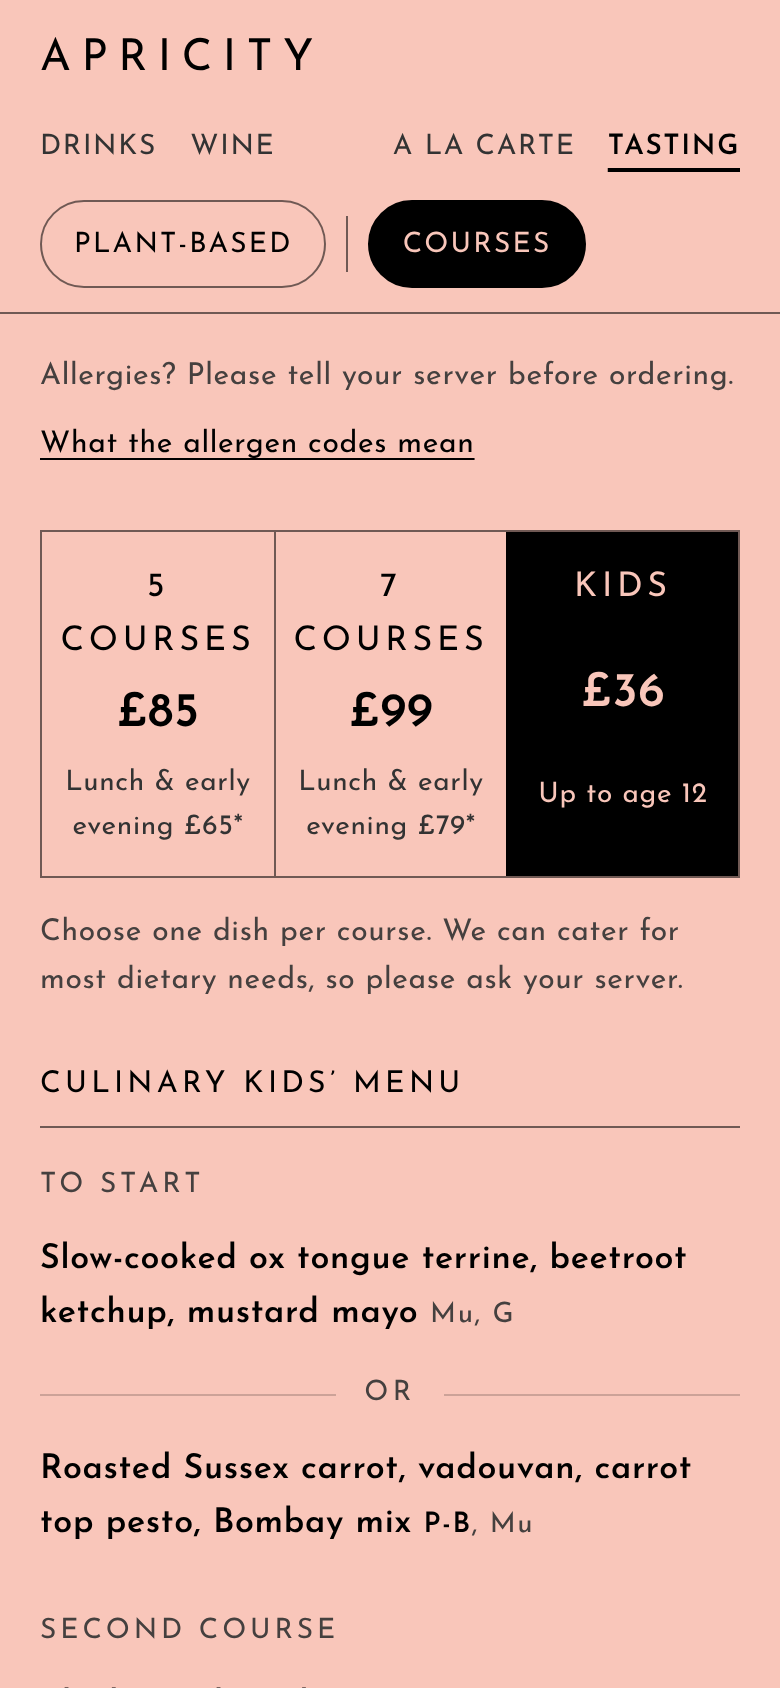
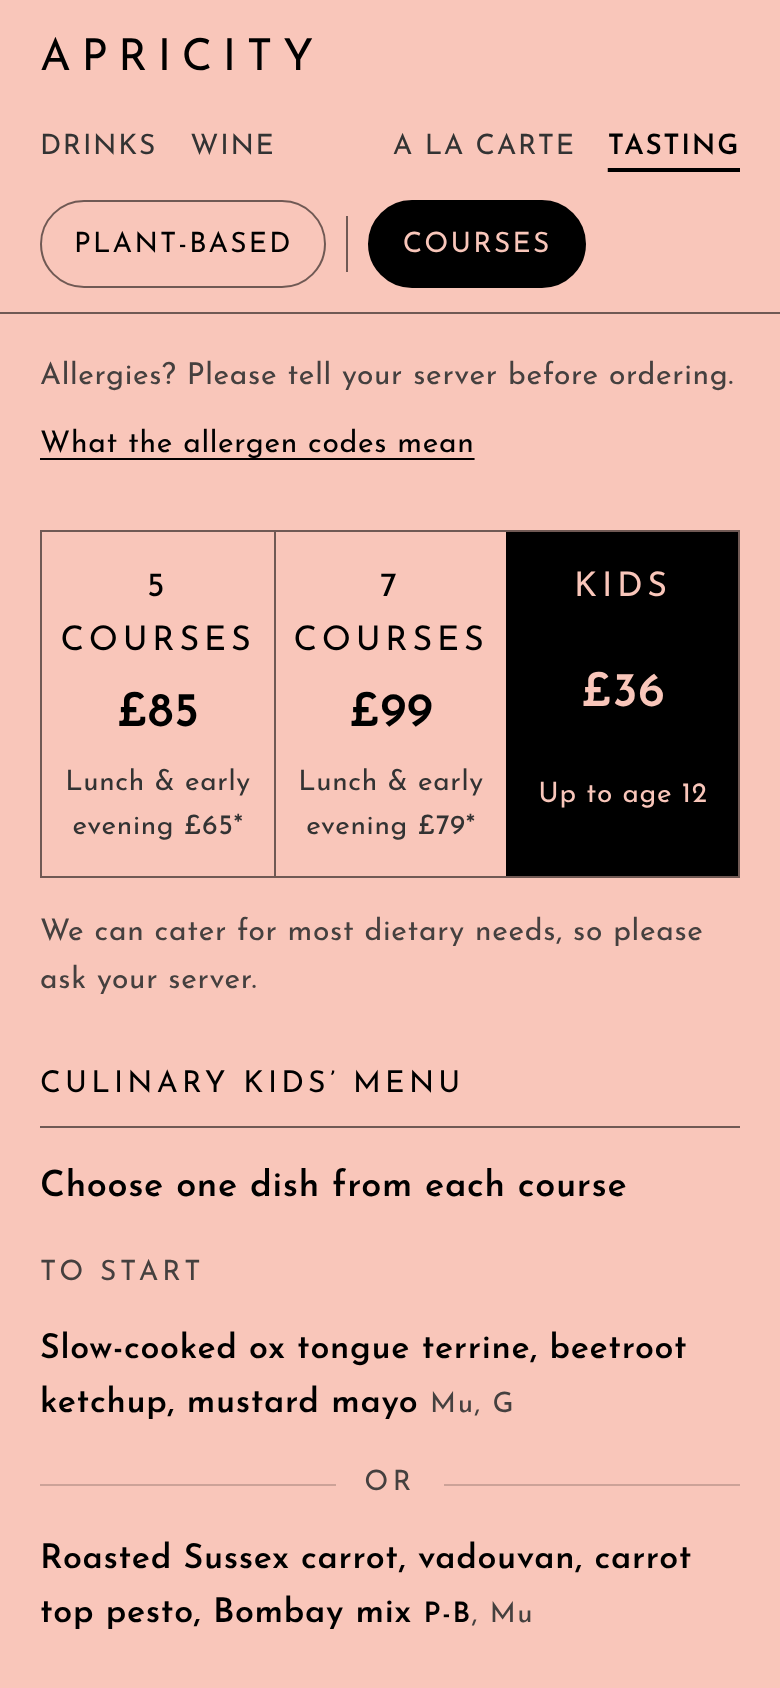
Tasting: 'Choose one dish from each course' on its own line
The instruction moves out of the asterisk note into its own bold line
at the top of the course list, on the 5-course, 7-course and kids'
menus. The asterisk note now only covers the lunch and early-evening
special. Tasting screenshots and boards refreshed.

Claude-Session: https://claude.ai/code/session_01GSSoGmMPpnkgwBsug1j8uu

diff --git a/chefs-table.html b/chefs-table.html
@@ -174,6 +174,7 @@ main:focus { outline: none; }
 .seg small { font-size: 0.875rem; color: var(--mid); }
 .seg button[aria-pressed="true"] { background: var(--ink); color: var(--page); }
 .seg button[aria-pressed="true"] small { color: var(--page); }
+.choose { margin: 16px 0 0; font-size: 1.125rem; font-weight: 600; }
 .opts { list-style: none; margin: 0; padding: 0; }
 .extra {
   display: inline-block; margin-left: 8px; padding: 3px 10px 1px; border: 1px solid var(--ink); border-radius: 999px;
@@ -511,8 +512,8 @@ details dd { margin: 0; }
         var sub = m.kids ? m.r.note : m.r["lunch & early evening"] && "Lunch & early evening " + money(m.r["lunch & early evening"]) + "*";
         return '<button type="button" data-courses="' + m.id + '" aria-pressed="' + (state.courses === m.id) + '"><span class="caps">' +
           (m.kids ? "Kids" : m.id + " courses") + '</span><span class="big">' + esc(money(m.r.price)) + "</span>" + (sub ? "<small>" + esc(sub) + "</small>" : "") + "</button>";
-      }).join("") + '</div><p class="note">' + (cur.kids ? "Choose one dish per course. We can cater for most dietary needs, so please ask your server."
-        : "*Lunch &amp; pre-booked early dinner, groups up to 6. Choose one dish per course.") + "</p>";
+      }).join("") + '</div><p class="note">' + (cur.kids ? "We can cater for most dietary needs, so please ask your server."
+        : "*Lunch &amp; pre-booked early dinner, groups up to 6.") + "</p>";
 
       // Priced groups (bread, sides) sit where they are in the sheet: above the first course they come before the
       // courses, below it they come after the pairings.
@@ -541,7 +542,9 @@ details dd { margin: 0; }
         html += section(slug(g.title), g.title, list(plantFilter(g.rows).map(rowItem)));
       });
       nav.push(["courses", "Courses"]);
-      html += section("courses", cur.kids ? "Culinary Kids’ menu" : state.courses + "-course menu", courses);
+      // The one instruction guests need, on its own line where the choosing starts.
+      html += section("courses", cur.kids ? "Culinary Kids’ menu" : state.courses + "-course menu",
+        '<p class="choose">Choose one dish from each course</p>' + courses);
       var nonAlcoholic = sel["non-alcoholic pairing"] || sel["alcohol-free pairing"];  // older sheets used "Alcohol-free"
       if (!cur.kids && (sel["wine pairing"] || nonAlcoholic)) {
         nav.push(["pairings", "Drinks pairing"]);

diff --git a/index.html b/index.html
@@ -174,6 +174,7 @@ main:focus { outline: none; }
 .seg small { font-size: 0.875rem; color: var(--mid); }
 .seg button[aria-pressed="true"] { background: var(--ink); color: var(--page); }
 .seg button[aria-pressed="true"] small { color: var(--page); }
+.choose { margin: 16px 0 0; font-size: 1.125rem; font-weight: 600; }
 .opts { list-style: none; margin: 0; padding: 0; }
 .extra {
   display: inline-block; margin-left: 8px; padding: 3px 10px 1px; border: 1px solid var(--ink); border-radius: 999px;
@@ -511,8 +512,8 @@ details dd { margin: 0; }
         var sub = m.kids ? m.r.note : m.r["lunch & early evening"] && "Lunch & early evening " + money(m.r["lunch & early evening"]) + "*";
         return '<button type="button" data-courses="' + m.id + '" aria-pressed="' + (state.courses === m.id) + '"><span class="caps">' +
           (m.kids ? "Kids" : m.id + " courses") + '</span><span class="big">' + esc(money(m.r.price)) + "</span>" + (sub ? "<small>" + esc(sub) + "</small>" : "") + "</button>";
-      }).join("") + '</div><p class="note">' + (cur.kids ? "Choose one dish per course. We can cater for most dietary needs, so please ask your server."
-        : "*Lunch &amp; pre-booked early dinner, groups up to 6. Choose one dish per course.") + "</p>";
+      }).join("") + '</div><p class="note">' + (cur.kids ? "We can cater for most dietary needs, so please ask your server."
+        : "*Lunch &amp; pre-booked early dinner, groups up to 6.") + "</p>";
 
       // Priced groups (bread, sides) sit where they are in the sheet: above the first course they come before the
       // courses, below it they come after the pairings.
@@ -541,7 +542,9 @@ details dd { margin: 0; }
         html += section(slug(g.title), g.title, list(plantFilter(g.rows).map(rowItem)));
       });
       nav.push(["courses", "Courses"]);
-      html += section("courses", cur.kids ? "Culinary Kids’ menu" : state.courses + "-course menu", courses);
+      // The one instruction guests need, on its own line where the choosing starts.
+      html += section("courses", cur.kids ? "Culinary Kids’ menu" : state.courses + "-course menu",
+        '<p class="choose">Choose one dish from each course</p>' + courses);
       var nonAlcoholic = sel["non-alcoholic pairing"] || sel["alcohol-free pairing"];  // older sheets used "Alcohol-free"
       if (!cur.kids && (sel["wine pairing"] || nonAlcoholic)) {
         nav.push(["pairings", "Drinks pairing"]);

diff --git a/src/chefs-table.html b/src/chefs-table.html
@@ -166,6 +166,7 @@ main:focus { outline: none; }
 .seg small { font-size: 0.875rem; color: var(--mid); }
 .seg button[aria-pressed="true"] { background: var(--ink); color: var(--page); }
 .seg button[aria-pressed="true"] small { color: var(--page); }
+.choose { margin: 16px 0 0; font-size: 1.125rem; font-weight: 600; }
 .opts { list-style: none; margin: 0; padding: 0; }
 .extra {
   display: inline-block; margin-left: 8px; padding: 3px 10px 1px; border: 1px solid var(--ink); border-radius: 999px;
@@ -503,8 +504,8 @@ details dd { margin: 0; }
         var sub = m.kids ? m.r.note : m.r["lunch & early evening"] && "Lunch & early evening " + money(m.r["lunch & early evening"]) + "*";
         return '<button type="button" data-courses="' + m.id + '" aria-pressed="' + (state.courses === m.id) + '"><span class="caps">' +
           (m.kids ? "Kids" : m.id + " courses") + '</span><span class="big">' + esc(money(m.r.price)) + "</span>" + (sub ? "<small>" + esc(sub) + "</small>" : "") + "</button>";
-      }).join("") + '</div><p class="note">' + (cur.kids ? "Choose one dish per course. We can cater for most dietary needs, so please ask your server."
-        : "*Lunch &amp; pre-booked early dinner, groups up to 6. Choose one dish per course.") + "</p>";
+      }).join("") + '</div><p class="note">' + (cur.kids ? "We can cater for most dietary needs, so please ask your server."
+        : "*Lunch &amp; pre-booked early dinner, groups up to 6.") + "</p>";
 
       // Priced groups (bread, sides) sit where they are in the sheet: above the first course they come before the
       // courses, below it they come after the pairings.
@@ -533,7 +534,9 @@ details dd { margin: 0; }
         html += section(slug(g.title), g.title, list(plantFilter(g.rows).map(rowItem)));
       });
       nav.push(["courses", "Courses"]);
-      html += section("courses", cur.kids ? "Culinary Kids’ menu" : state.courses + "-course menu", courses);
+      // The one instruction guests need, on its own line where the choosing starts.
+      html += section("courses", cur.kids ? "Culinary Kids’ menu" : state.courses + "-course menu",
+        '<p class="choose">Choose one dish from each course</p>' + courses);
       var nonAlcoholic = sel["non-alcoholic pairing"] || sel["alcohol-free pairing"];  // older sheets used "Alcohol-free"
       if (!cur.kids && (sel["wine pairing"] || nonAlcoholic)) {
         nav.push(["pairings", "Drinks pairing"]);

diff --git a/src/menu.html b/src/menu.html
@@ -166,6 +166,7 @@ main:focus { outline: none; }
 .seg small { font-size: 0.875rem; color: var(--mid); }
 .seg button[aria-pressed="true"] { background: var(--ink); color: var(--page); }
 .seg button[aria-pressed="true"] small { color: var(--page); }
+.choose { margin: 16px 0 0; font-size: 1.125rem; font-weight: 600; }
 .opts { list-style: none; margin: 0; padding: 0; }
 .extra {
   display: inline-block; margin-left: 8px; padding: 3px 10px 1px; border: 1px solid var(--ink); border-radius: 999px;
@@ -503,8 +504,8 @@ details dd { margin: 0; }
         var sub = m.kids ? m.r.note : m.r["lunch & early evening"] && "Lunch & early evening " + money(m.r["lunch & early evening"]) + "*";
         return '<button type="button" data-courses="' + m.id + '" aria-pressed="' + (state.courses === m.id) + '"><span class="caps">' +
           (m.kids ? "Kids" : m.id + " courses") + '</span><span class="big">' + esc(money(m.r.price)) + "</span>" + (sub ? "<small>" + esc(sub) + "</small>" : "") + "</button>";
-      }).join("") + '</div><p class="note">' + (cur.kids ? "Choose one dish per course. We can cater for most dietary needs, so please ask your server."
-        : "*Lunch &amp; pre-booked early dinner, groups up to 6. Choose one dish per course.") + "</p>";
+      }).join("") + '</div><p class="note">' + (cur.kids ? "We can cater for most dietary needs, so please ask your server."
+        : "*Lunch &amp; pre-booked early dinner, groups up to 6.") + "</p>";
 
       // Priced groups (bread, sides) sit where they are in the sheet: above the first course they come before the
       // courses, below it they come after the pairings.
@@ -533,7 +534,9 @@ details dd { margin: 0; }
         html += section(slug(g.title), g.title, list(plantFilter(g.rows).map(rowItem)));
       });
       nav.push(["courses", "Courses"]);
-      html += section("courses", cur.kids ? "Culinary Kids’ menu" : state.courses + "-course menu", courses);
+      // The one instruction guests need, on its own line where the choosing starts.
+      html += section("courses", cur.kids ? "Culinary Kids’ menu" : state.courses + "-course menu",
+        '<p class="choose">Choose one dish from each course</p>' + courses);
       var nonAlcoholic = sel["non-alcoholic pairing"] || sel["alcohol-free pairing"];  // older sheets used "Alcohol-free"
       if (!cur.kids && (sel["wine pairing"] || nonAlcoholic)) {
         nav.push(["pairings", "Drinks pairing"]);

diff --git a/README.md b/README.md
@@ -19,7 +19,7 @@ The team sees these problems again and again during service.
 | **Losing their place.** Guests find the wine they want, look at the food, then can't find the wine again when it's time to order drinks. | Each menu remembers where the guest was. Switch to the food and back, and the wine list reopens at the same wine (tabs, end-of-list links and the back button all work). Two buttons, *By the glass* and *Bottles*, reach any part of the wine list; *Bottles* opens into a button per style. |
 | **Vegan guests overwhelmed, and unsure what is plant-based.** They scan every dish for a small "P-B" code. On the tasting menu there's often only one dish per course they can have, and that isn't obvious. | A *Plant-based* button hides everything else, on the a la carte and all tasting menus, and the phone remembers it. With it on, each tasting course shows its single plant-based dish, so a vegan guest sees their menu rather than choices they can't have. "P-B" is printed in bold on every dish. |
 | **Older guests struggling to read.** Thin, small, grey lettering, in a softly lit dining room, often without reading glasses. | At least 14px text (main text 17px), never thin, with contrast of at least 6.7:1 (the website: down to 12px, mostly thin, 3.6:1). A *Larger text* button (115% and 132%) on the start page and at the end of every menu, and tap targets of at least 44px. See [`accessibility/`](accessibility/REPORT.md). |
-| **Unsure how many choices to make on the tasting menu.** The website shows the 5- and 7-course menus on one page, in one list, with 7-course-only courses marked "(for 7-courses)" and "*" inside it. Guests have to work out which courses, and how many choices, apply to them. | Guests tap *5 courses*, *7 courses* or *Kids*, and only that menu's courses show, under a heading such as "5-course menu" and "Choose one dish per course", with an **or** between each course's dishes so it's clear a choice is needed. The 7-course extras disappear from the 5-course menu, apart from the cheese course, which shows its dishes in full under an *Optional · £8 extra* label. The price, lunch price and pairings change with the choice. |
+| **Unsure how many choices to make on the tasting menu.** The website shows the 5- and 7-course menus on one page, in one list, with 7-course-only courses marked "(for 7-courses)" and "*" inside it. Guests have to work out which courses, and how many choices, apply to them. | Guests tap *5 courses*, *7 courses* or *Kids*, and only that menu's courses show, under a heading such as "5-course menu" and a clear line, "Choose one dish from each course", with an **or** between each course's dishes so it's clear a choice is needed. The 7-course extras disappear from the 5-course menu, apart from the cheese course, which shows its dishes in full under an *Optional · £8 extra* label. The price, lunch price and pairings change with the choice. |
 
 The plant-based filter follows the restaurant's own "P-B" codes. Guests with a strict vegan diet or an allergy should still check with their server.
 
